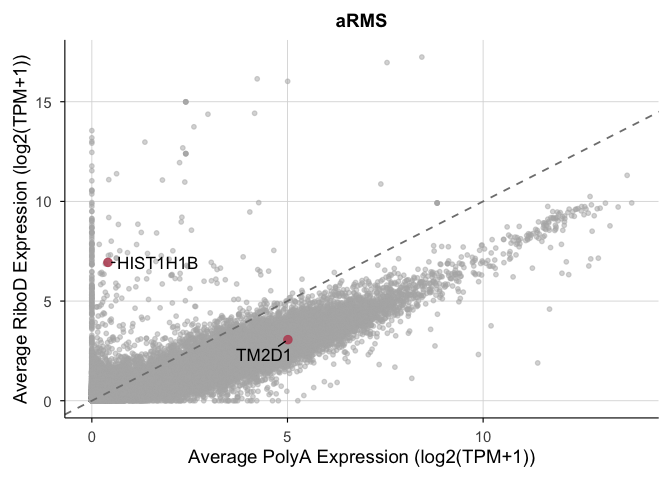
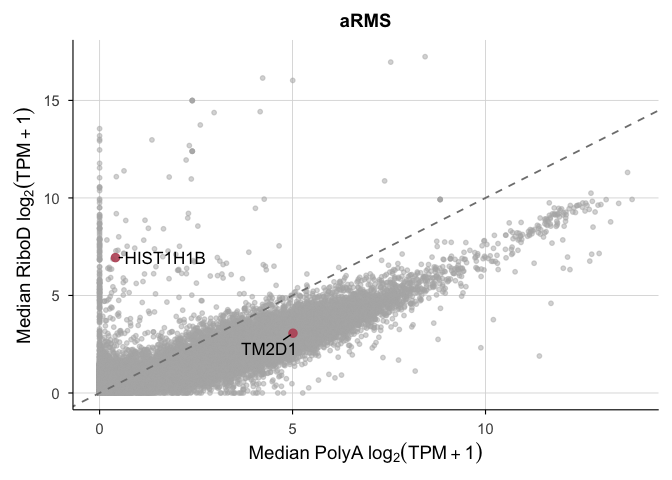
Fig1G/S6 log2(TPM+1) subscript

diff --git a/Fig_1/Fig1G/Fig1G.md b/Fig_1/Fig1G/Fig1G.md
@@ -468,6 +468,7 @@ combined_medians_hugo_res <- combined_medians_hugo_res %>%
     )
   )
 # this creates a dataframe that shows the polyA median expression and riboD median expression with the calculated residual for each disease. The representative polyadenylated genes are colored for their respective disease. HIST1H1B is colored for all diseases as the representative nonpolyadenylated gene.
+write_tsv(combined_medians_hugo_res, "../../output_data/Fig1G/combined_medians_hugo_res.tsv.gz")
 ```
 
 Fig1G
@@ -509,10 +510,12 @@ Fig1G <- map(diseases, function(d) {
                 linetype = "dashed", color = "gray50") +
 
     labs(
-      title = paste(d),
-      x = "Average PolyA Expression (log2(TPM+1))",
-      y = "Average RiboD Expression (log2(TPM+1))",
+      title = paste(d)
+      # x = "Average PolyA Expression (log2(TPM+1))",
+      # y = "Average RiboD Expression (log2(TPM+1))",
     ) +
+    xlab(bquote(Median~PolyA~log[2](TPM+1))) +
+    ylab(bquote(Median~RiboD~log[2](TPM+1))) +
     theme_minimal(base_size = 14) +
     plot_theme()
 })
@@ -623,10 +626,12 @@ Fig1G_all <- map(diseases, function(d) {
                 linetype = "dashed", color = "gray50") +
 
     labs(
-      title = paste(d),
-      x = "Average PolyA Expression (log2(TPM+1))",
-      y = "Average RiboD Expression (log2(TPM+1))",
+      title = paste(d)
+      # x = "Average PolyA Expression (log2(TPM+1))",
+      # y = "Average RiboD Expression (log2(TPM+1))",
     ) +
+    xlab(bquote(Median~PolyA~log[2](TPM+1))) +
+    ylab(bquote(Median~RiboD~log[2](TPM+1))) +
     theme_minimal(base_size = 14) +
     plot_theme() +
     coord_cartesian(xlim = c(0, 15), ylim = c(0, 20)) +
@@ -722,7 +727,7 @@ FigS6
 ![](Fig1G_files/figure-commonmark/FigS6-1.png)
 
 ``` r
-ggsave("../../Figures/FigS6.png", FigS6, width = 20, height = 36, dpi = 500)
+ggsave("../../Figures/FigS6.png", FigS6, width = 20, height = 36, dpi = 300)
 ```
 
     Warning: Removed 60496 rows containing missing values or values outside the scale range
@@ -739,7 +744,7 @@ ggsave("../../Figures/FigS6.png", FigS6, width = 20, height = 36, dpi = 500)
     (`geom_text_repel()`).
 
 ``` r
-ggsave("../../Figures/FigS6.tif", FigS6, width = 20, height = 36, dpi = 500)
+ggsave("../../Figures/FigS6.tif", FigS6, width = 20, height = 36, dpi = 300)
 ```
 
     Warning: Removed 60496 rows containing missing values or values outside the scale range
@@ -771,7 +776,7 @@ sessioninfo::session_info()
      collate  en_US.UTF-8
      ctype    en_US.UTF-8
      tz       America/Los_Angeles
-     date     2026-06-25
+     date     2026-07-07
      pandoc   3.8.3 @ /Applications/RStudio.app/Contents/Resources/app/quarto/bin/tools/aarch64/ (via rmarkdown)
      quarto   1.9.36 @ /Applications/RStudio.app/Contents/Resources/app/quarto/bin/quarto
 
